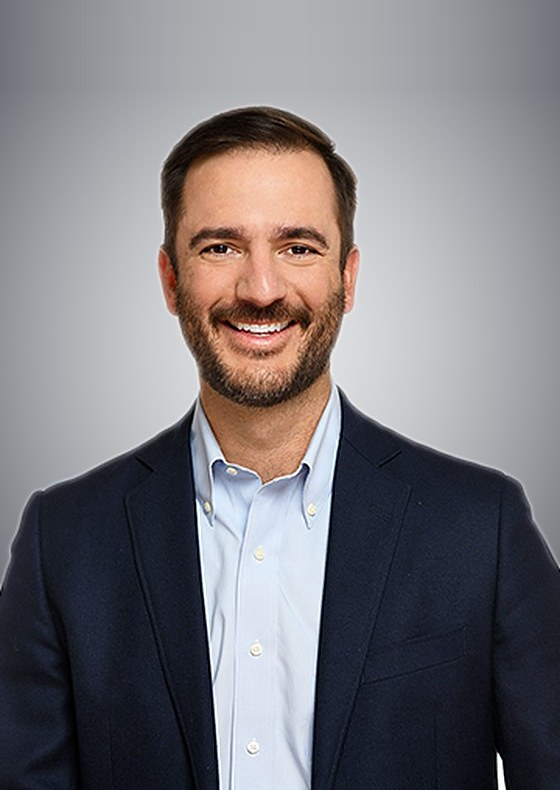
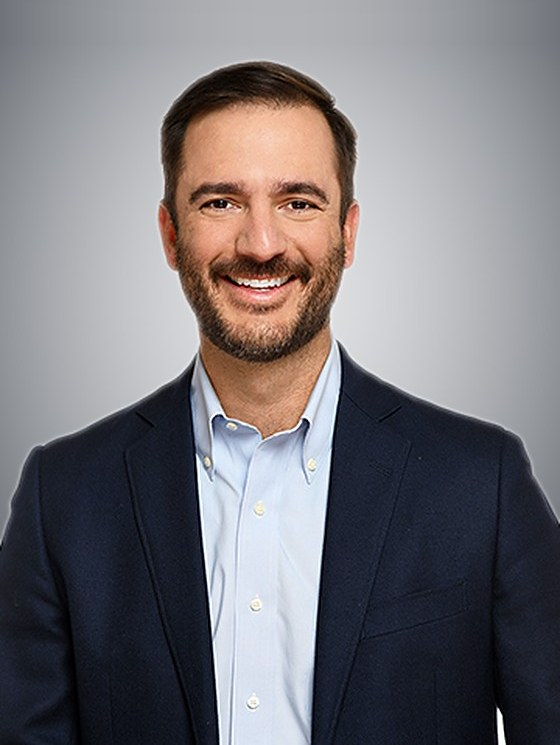
Tighten headroom on Spencer's homepage headshot

diff --git a/index.html b/index.html
@@ -180,7 +180,7 @@
       <div class="wrap">
         <div class="founder__inner">
           <div class="founder__photo reveal">
-            <img loading="lazy" decoding="async" src="images/team/spencer-williams-home.jpg" alt="Spencer Williams, Founding Principal of Madfarm Advisors">
+            <img loading="lazy" decoding="async" src="images/team/spencer-williams-home.jpg?v=2" alt="Spencer Williams, Founding Principal of Madfarm Advisors">
           </div>
           <div class="founder__quote-wrap reveal">
             <span class="eyebrow">Senior Representation</span>
